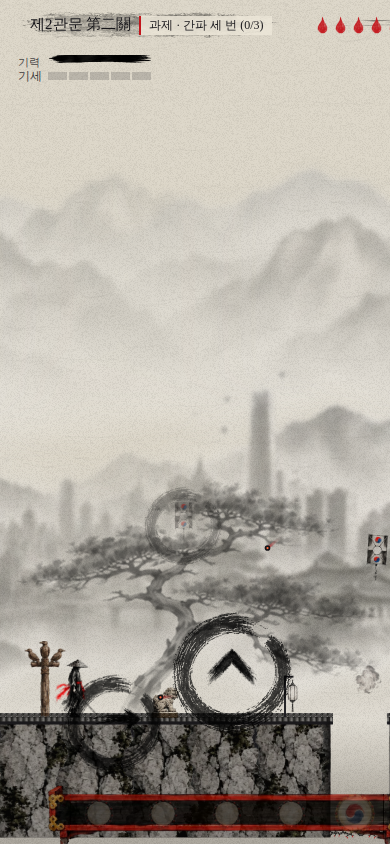
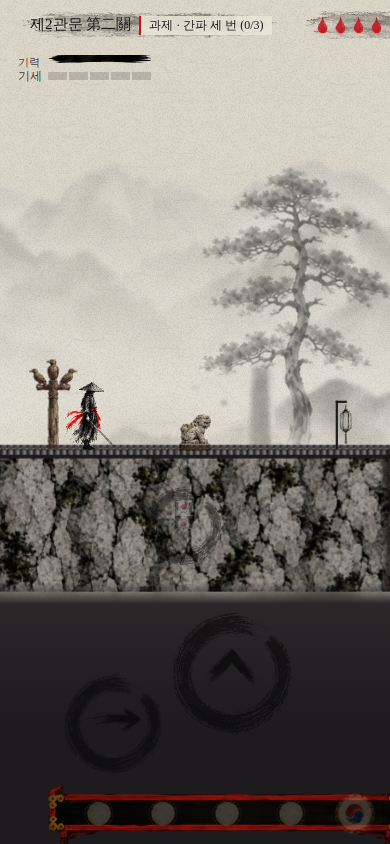
마감: 세로 화면 지원(무대는 위, 엄지 자리는 아래, 거점 포함), 다른 창으로 가면 멈춤, 그림 버전 관리로 배포 직후 옛 그림·짝 어긋남 방지, 배경음 파일 제거, 종이 질감을 배경·원경에 미리 구워 전체화면 덧칠 한 겹 제거, 디버그는 로컬에서만
Claude-Session: https://claude.ai/code/session_01Rc1cVb1vkCQfdutHoe7fgf

diff --git a/js/game.js b/js/game.js
@@ -2,6 +2,7 @@
 (() => {
 "use strict";
 const T = 32;
+const ASSET_V = "126";   // bump when any picture changes: the service worker then fetches the new json and webp together
 const $ = id => document.getElementById(id);
 const cv = $("cv"); let ctx = cv.getContext("2d", { alpha: false });   // let: the ground is baked by pointing ctx at an offscreen canvas for a moment   // opaque canvas: cheaper to composite on phones
 let W = 0, H = 0, DPR = 1, SCALE = 1;
@@ -10,12 +11,15 @@ let autoLite = false;   // set for this session when frames stay slow even at 1x
 let liteSaved = (() => { try { return localStorage.getItem("chungo.lite") === "1"; } catch (e) { return false; } })();   // read once: storage can be blocked, and this is asked every frame
 const LITE = () => autoLite || liteSaved;
 let dprCap = LITE() ? 1 : MOBILE ? 1.25 : 2;   // phones: 1.5x is sharp enough and much lighter on the GPU; lowered further if frames run long
+const PORTRAIT = () => H > W * 1.05;
+const padH = () => PORTRAIT() ? Math.round(H * .3) : 0;   // 세로: the lowest part of the screen is for the thumbs, the stage sits above it
 function resize() {
   DPR = Math.min(dprCap, window.devicePixelRatio || 1);
   for (const k in PAT) delete PAT[k];   // patterns carry the old pixel scale
   const r = cv.getBoundingClientRect(); W = Math.round(r.width) || window.innerWidth; H = Math.round(r.height) || window.innerHeight;   // the canvas's real laid-out box, not the (often stale) window size
   cv.width = Math.round(W * DPR); cv.height = Math.round(H * DPR);
-  SCALE = Math.max(0.5, Math.min(W / (T * 13), H / (T * 11)));
+  SCALE = PORTRAIT() ? Math.max(0.5, W / (T * 11)) : Math.max(0.5, Math.min(W / (T * 13), H / (T * 11)));   // upright phone: eleven tiles across, the controls get the bottom of the screen
+  document.body.classList.toggle("portrait", PORTRAIT());
   vignette = null;
 }
 window.addEventListener("resize", resize);
@@ -91,6 +95,21 @@ function tintedPaper(ssn) { // paper texture with the season's colour multiplied
   const key = "tex-paper-" + ssn; if (PAT[key]) return PAT[key]; const im = IMG["tex-paper"]; if (!im) return null;
   if (!IMG[key]) { const c = document.createElement("canvas"); c.width = im.width; c.height = im.height; const g = c.getContext("2d"); g.drawImage(im, 0, 0); g.globalCompositeOperation = "multiply"; g.fillStyle = SEASON_TINT[ssn]; g.fillRect(0, 0, c.width, c.height); IMG[key] = c; }
   return pattern(key, DPR * 0.9);
+}
+// one full-screen pass fewer per frame: the paper grain is laid into the background colour and into the far/mid paintings
+// once, instead of multiplying the whole screen by the paper every frame
+function bgPaper(col, alpha, ssn) {
+  const key = `bgp-${col}-${alpha}-${ssn}`; if (PAT[key]) return PAT[key]; const src = ssn ? (tintedPaper(ssn), IMG["tex-paper-" + ssn]) : IMG["tex-paper"]; if (!src) return null;
+  if (!IMG[key]) { const c = document.createElement("canvas"); c.width = src.width; c.height = src.height; const g = c.getContext("2d"); g.fillStyle = col; g.fillRect(0, 0, c.width, c.height); g.globalAlpha = alpha; g.globalCompositeOperation = "multiply"; g.drawImage(src, 0, 0); IMG[key] = c; }
+  return pattern(key, DPR * 0.9);
+}
+const paperBaked = new WeakMap();
+function bakePaper(img) { // a backdrop painting with the paper grain multiplied in, its own transparency kept
+  if (paperBaked.has(img)) return paperBaked.get(img); const pp = IMG["tex-paper"]; if (!pp) return img;
+  const c = document.createElement("canvas"); c.width = img.width; c.height = img.height; const g = c.getContext("2d"); g.drawImage(img, 0, 0);
+  g.globalCompositeOperation = "multiply"; g.globalAlpha = .9; const pt = g.createPattern(pp, "repeat"); pt.setTransform(new DOMMatrix().scale(img.height / 600)); g.fillStyle = pt; g.fillRect(0, 0, c.width, c.height);
+  g.globalAlpha = 1; g.globalCompositeOperation = "destination-in"; g.drawImage(img, 0, 0);
+  paperBaked.set(img, c); gpuize(c, bm => paperBaked.set(img, bm)); return c;
 }
 function pattern(key, scale) { // world- or screen-anchored repeating pattern, built once per image
   if (!IMG[key]) return null;
@@ -627,8 +646,8 @@ const sheetLoading = new Set();
 function loadSheet(n) { // one atlas: frames JSON + image (ink-inverted copy for the night palette where needed)
   if (SPR[n] || sheetLoading.has(n)) return; sheetLoading.add(n);
   Promise.all([
-    fetch(`assets/sprites/${n}.json`).then(r => r.json()),
-    new Promise((res, rej) => { const im = new Image(); im.onload = () => res(im); im.onerror = rej; im.src = `assets/sprites/${n}.webp`; })
+    fetch(`assets/sprites/${n}.json?v=${ASSET_V}`).then(r => r.json()),
+    new Promise((res, rej) => { const im = new Image(); im.onload = () => res(im); im.onerror = rej; im.src = `assets/sprites/${n}.webp?v=${ASSET_V}`; })
   ]).then(([f, img]) => { let inv = null; if (["hero", "hero2", "foes", "objects", "fx", "props", "props2", "rocks", "pines", "slabs", "pillars", "guide", "bname", "foes3"].includes(n)) try { inv = inkInverted(img); } catch (e) { inv = null; }   // short of canvas memory: keep the sheet, lose only its night copy
     SPR[n] = { f, img, inv };
     if (SPR[n].inv) gpuize(SPR[n].inv, bm => { SPR[n].inv = bm; }); applyUiSprites(); }).catch(() => { sheetLoading.delete(n); const a = (sheetTry[n] = (sheetTry[n] || 0) + 1); setTimeout(() => loadSheet(n), Math.min(5000, 1200 * a)); });   // a failed load (offline blip, a deploy in progress) is tried again
@@ -654,7 +673,7 @@ const BASE_IMGS = ["far", "mid", "tex-paper", "tex-stone", "tex-giwa"];
 // Sheets held in memory stay as before (the lazy ones are only fetched into the cache here, not decoded).
 function bootLoad() {
   const el = $("loading"), bar = $("ldBar"), txt = $("ldTxt"), t0 = performance.now();
-  const urls = []; for (const n of LAZY_SHEETS) urls.push(`assets/sprites/${n}.json`, `assets/sprites/${n}.webp`);   // the core sheets and textures are already on their way through their own loaders — fetching them twice would only double the download
+  const urls = []; for (const n of LAZY_SHEETS) urls.push(`assets/sprites/${n}.json?v=${ASSET_V}`, `assets/sprites/${n}.webp?v=${ASSET_V}`);   // the core sheets and textures are already on their way through their own loaders — fetching them twice would only double the download
   urls.push("assets/lore.webp", "assets/tex-granite.webp");
   const core = ALL_SHEETS.filter(n => !LAZY_SHEETS.has(n));
   let got = 0, q = urls.slice();
@@ -861,7 +880,7 @@ window.addEventListener("keyup", e => {
   const a = keyAct(e.code); if (a) held[a] = 0; });
 let iaiFrom = null;
 const IAI_FULL = .32, IAI_MASTER = .75, iaiF = () => IAI_FULL * (has("bd_c1") ? .7 : 1), iaiM = () => IAI_MASTER * (has("bd_c1") ? .7 : 1);   // seconds of holding before the 발도 / 각궁 draw is full   // 발도: when the hand went to the hilt
-window.addEventListener("blur", () => { for (const k in held) held[k] = 0; });
+window.addEventListener("blur", () => { for (const k in held) held[k] = 0; if (!hubOn && state === "play") pauseGame(); });   // another window took the focus: stop, as a hidden tab does
 function markTouch() { document.body.classList.add("touch"); }
 if (matchMedia("(pointer:coarse)").matches || "ontouchstart" in window) markTouch();
 window.addEventListener("touchstart", markTouch, { passive: true });
@@ -3440,7 +3459,9 @@ function render(rdt) {
     const lw = LV.w * T, lh = LV.h * T;
     cam.x = lw <= vw ? lw / 2 : Math.max(vw / 2, Math.min(lw - vw / 2, cam.x));
     const maxY = lh - vh / 2 + 8; cam.y = Math.min(maxY, Math.max(Math.min(maxY, vh / 2 - 96), cam.y));
-    if (LV.hub) { const r = hubRect(); cam.x = r.w <= vw ? r.x + r.w / 2 : Math.max(r.x + vw / 2, Math.min(r.x + r.w - vw / 2, cam.x)); cam.y = r.h <= vh ? r.y + r.h / 2 : Math.max(r.y + vh / 2, Math.min(r.y + r.h - vh / 2, cam.y)); }   // the 거점: the screen never leaves the painting
+    if (PORTRAIT()) { const bottom = LV.hub ? hubRect().y + hubRect().h : lh; cam.y = bottom - (H / 2 - padH()) / (SCALE * zoom); }   // the ground line sits just above the thumbs
+    if (LV.hub && PORTRAIT()) { const r = hubRect(); cam.x = Math.max(r.x + vw / 2, Math.min(r.x + r.w - vw / 2, cam.x)); }
+    if (LV.hub && !PORTRAIT()) { const r = hubRect(); cam.x = r.w <= vw ? r.x + r.w / 2 : Math.max(r.x + vw / 2, Math.min(r.x + r.w - vw / 2, cam.x)); cam.y = r.h <= vh ? r.y + r.h / 2 : Math.max(r.y + vh / 2, Math.min(r.y + r.h - vh / 2, cam.y)); }   // the 거점: the screen never leaves the painting
   }
   if (P && state === "play" && (padFadeT = (padFadeT || 0) - rdt) <= 0) { padFadeT = .2; const px = (P.x + P.w / 2 - cam.x) * SCALE * zoom + W / 2, py = (P.y + P.h / 2 - cam.y) * SCALE * zoom + H / 2;   // a button over the swordsman goes see-through
     for (const el of document.querySelectorAll("#pad .tb")) { const r = el.getBoundingClientRect(); el.classList.toggle("over", px > r.left - 30 && px < r.right + 30 && py > r.top - 40 && py < r.bottom + 30); } }
@@ -3449,13 +3470,12 @@ function render(rdt) {
 
   ctx.setTransform(1, 0, 0, 1, 0, 0);
   const hubPainted = LV && LV.hub && state !== "menu" && HUBIMG.complete && HUBIMG.naturalWidth;   // the 거점 painting covers the whole screen: no paper, sky or weather under it
-  if (!hubPainted) { ctx.fillStyle = pal.bg; ctx.fillRect(0, 0, cv.width, cv.height); }
+  const ssn0 = LV && state !== "menu" && !pal.night ? season() : 0;   // the season's tint is baked into the paper, so the screen is washed once, not twice
+  if (!hubPainted) { ctx.fillStyle = (!LITE() && bgPaper(pal.bg, pal.rim ? .35 : .9, ssn0)) || pal.bg; ctx.fillRect(0, 0, cv.width, cv.height); }
   if (!(LV && LV.hub)) drawBackdrop(pal);
   ctx.setTransform(1, 0, 0, 1, 0, 0);
-  const ssn0 = LV && state !== "menu" && !pal.night ? season() : 0;   // the season's tint is baked into the paper, so the screen is washed once, not twice
   const paperTex = ssn0 ? tintedPaper(ssn0) : pattern("tex-paper", DPR * 0.9);
-  if (hubPainted) {}
-  else if (paperTex && !LITE()) { ctx.globalCompositeOperation = "multiply"; ctx.globalAlpha = pal.rim ? .35 : .9; ctx.fillStyle = paperTex; ctx.fillRect(0, 0, cv.width, cv.height); ctx.globalCompositeOperation = "source-over"; ctx.globalAlpha = 1; }
+  if (hubPainted || (paperTex && !LITE())) {}   // the grain is already in the background and the paintings (bgPaper, bakePaper)
   else { ctx.fillStyle = paperPat; ctx.fillRect(0, 0, cv.width, cv.height); }
   if (!LV || state === "menu") return;
   const ssn = season(), tt = performance.now() / 1000;
@@ -3730,6 +3750,7 @@ function render(rdt) {
     { const rx = cx + d.x * 152, ry = cy + d.y * 152; ctx.globalAlpha = .8; brushRing(rx, ry, 9 * rs, ac, 1.6, 5); if (!SPR.guide) for (let q = 0; q < 4; q++) { const qa = q * Math.PI / 2 + .3; inkDab(rx + Math.cos(qa) * 14 * rs, ry + Math.sin(qa) * 14 * rs, qa, 6, 1.6, ac); } ctx.globalAlpha = 1; }   // where the dash will land, a small brushed ring
   }
 
+  if (PORTRAIT() && LV && !LV.hub) { const g = ctx.createLinearGradient(0, LV.h * T - 8, 0, LV.h * T + 120); g.addColorStop(0, pal.night ? "rgba(10,10,14,.0)" : "rgba(23,22,26,0)"); g.addColorStop(.15, pal.night ? "#0c0b10" : "#2a2729"); g.addColorStop(1, pal.night ? "#0c0b10" : "#1d1b1e"); ctx.fillStyle = g; ctx.fillRect(cam.x - vw, LV.h * T - 8, vw * 2, vh + 16); }   // 세로: under the stage, the earth where the thumbs rest
   // screen space overlays
   ctx.setTransform(1, 0, 0, 1, 0, 0);
   if (!vignette) { vignette = ctx.createRadialGradient(cv.width / 2, cv.height / 2, Math.min(cv.width, cv.height) * .35, cv.width / 2, cv.height / 2, Math.max(cv.width, cv.height) * .75); vignette.addColorStop(0, "rgba(20,18,16,0)"); vignette.addColorStop(1, "rgba(20,18,16,.32)"); }
@@ -3811,7 +3832,7 @@ function drawBackdrop(pal) {
   layers.forEach(([key, f, alpha, bottom, hFrac], li) => {
     const yoff = (lh - camY) * f * .5 * SCALE;
     const by = H * bottom + yoff;
-    const img = IMG[key];
+    const img = IMG[key] && !LITE() ? bakePaper(IMG[key]) : IMG[key];
     ctx.globalAlpha = alpha;
     if (img) {
       const h = H * hFrac, w = h * img.width / img.height, off = ((camX * f * SCALE) % w + w) % w;
@@ -4779,7 +4800,7 @@ function petScreen() { // 둥지: choose an egg, feed it 숨
 let hubOn = false, hubNear = null;
 // the 거점 is one painted courtyard: a yard, a stone terrace (축대) with the main hall on it, and five places to go
 const HUB_W = 40, HUB_UP = 10, HUB_K = 40 * 32 / 1344, HUB_Y = 12 * 32 - 490 * (40 * 32 / 1344);   // the painting spans the map exactly   // the painting's ground line (y 490) sits on row 12; its terrace top lands on row 10
-const HUBIMG = new Image(); HUBIMG.src = "assets/hubscene.webp?v=10029700";
+const HUBIMG = new Image(); HUBIMG.src = `assets/hubscene.webp?v=${ASSET_V}`;
 const HUB_ST = [
   { id: "gate", tx: 4, ty: 12, h: 150, name: "산문", han: "山門", act: "길 떠나기 · 천고탑 · 수련터" },
   { id: "well", tx: 9, ty: 12, h: 80, name: "약수터", han: "藥水", act: "숨 다스리기 · 영물" },
@@ -4810,7 +4831,7 @@ function buildHubMap() {
   rows[11][6] = "P"; return rows.map(r => r.join(""));
 }
 const hubRect = () => { const w = 1344 * HUB_K, h = 576 * HUB_K; return { x: (LV.w * T - w) / 2, y: HUB_Y, w, h }; };
-function hubZoom() { const r = hubRect(), vw0 = W / SCALE, vh0 = H / SCALE; return Math.max(1, vw0 / r.w, vh0 / r.h); }   // any screen: zoom in until the painting covers it
+function hubZoom() { const r = hubRect(), vw0 = W / SCALE, vh0 = H / SCALE; return PORTRAIT() ? Math.max(1, vw0 / r.w) : Math.max(1, vw0 / r.w, vh0 / r.h); }   // any screen: zoom in until the painting covers it
 function drawHubScene(pal) { // the painting itself is the place; the yard below its ground line is plain earth
   const top = HUB_Y, w = 1344 * HUB_K, h = 576 * HUB_K, x = (LV.w * T - w) / 2, I = HUBIMG;
   if (!(I.complete && I.naturalWidth)) { ctx.fillStyle = "#d9d3c4"; ctx.fillRect(-400, top + h - 2, LV.w * T + 800, 1200); return; }
@@ -5057,7 +5078,7 @@ $("bInstall").addEventListener("click", async () => { if (!installEvt) return; i
 const standalone = matchMedia("(display-mode: standalone)").matches || matchMedia("(display-mode: fullscreen)").matches || navigator.standalone;
 
 
-if (location.hash === "#debug") window.__dbg = { get missing() { return ALL_SHEETS.filter(n => !LAZY_SHEETS.has(n) && !SPR[n]).concat(BASE_IMGS.filter(k => !IMG[k])); }, tp(tx, ty) { P.x = tx * T + 7; P.y = (ty + 1) * T - 30; P.vx = P.vy = 0; }, get state() { return state; }, get P() { return P; }, get LV() { return LV; }, get state2() { return state; }, get SC() { return LV.scenery; }, get E() { return enemies; }, get run() { return run; }, set hs(v) { hitstop = v; }, kill(e) { killEnemy(e); }, hurt(e, s, k) { hurtEnemy(e, s, k); }, die(k, d) { die(k, d); }, banner(a, b, c) { banner(a, b === "red" ? SEAL : JJOK, c); }, chungo() { chungo(); }, clear() { madangClear(); }, hubAct() { hubAct(); }, get hub() { return { hubOn, hubNear }; }, get songPos() { return songPos; }, get FLASH() { return FLASH; }, get hold() { return bulletHold; }, get bolts() { return bolts; }, get rings() { return rings; }, get B() { return bullets; }, get beams() { return beams; }, flashing: e => isFlashing(e), enlighten: f => enlighten(f), syncCombos: () => syncCombos(), has: id => has(id), get FL() { flashSync(); return FLASH; } };
+if (location.hash === "#debug" && /^(localhost|127\.0\.0\.1)$/.test(location.hostname)) window.__dbg = { get missing() { return ALL_SHEETS.filter(n => !LAZY_SHEETS.has(n) && !SPR[n]).concat(BASE_IMGS.filter(k => !IMG[k])); }, tp(tx, ty) { P.x = tx * T + 7; P.y = (ty + 1) * T - 30; P.vx = P.vy = 0; }, get state() { return state; }, get P() { return P; }, get LV() { return LV; }, get state2() { return state; }, get SC() { return LV.scenery; }, get E() { return enemies; }, get run() { return run; }, set hs(v) { hitstop = v; }, kill(e) { killEnemy(e); }, hurt(e, s, k) { hurtEnemy(e, s, k); }, die(k, d) { die(k, d); }, banner(a, b, c) { banner(a, b === "red" ? SEAL : JJOK, c); }, chungo() { chungo(); }, clear() { madangClear(); }, hubAct() { hubAct(); }, get hub() { return { hubOn, hubNear }; }, get songPos() { return songPos; }, get FLASH() { return FLASH; }, get hold() { return bulletHold; }, get bolts() { return bolts; }, get rings() { return rings; }, get B() { return bullets; }, get beams() { return beams; }, flashing: e => isFlashing(e), enlighten: f => enlighten(f), syncCombos: () => syncCombos(), has: id => has(id), get FL() { flashSync(); return FLASH; } };
 window.addEventListener("pointerdown", () => Music.unlock(), { once: true, capture: true });   // first tap anywhere starts the sound
 resize();
 toMenu();

diff --git a/sw.js b/sw.js
@@ -4,7 +4,7 @@ const CACHE = "chungo-v125";
 const ASSETS = "chungo-assets";   // pictures and sound: kept across versions, served at once, refreshed in the background
 const CORE = ["./", "index.html", "manifest.webmanifest",
   "icons/icon-192.png", "icons/icon-512.png", "icons/apple-touch-icon.png"];
-const OPTIONAL = ["assets/far.webp", "assets/mid.webp", "assets/title.webp", "assets/tex-paper.webp", "assets/audio/bgm.mp3?v=572", "assets/tex-stone.webp", "assets/tex-giwa.webp", "assets/tex-granite.webp", "assets/tex-slab.webp", "assets/sprites/hero.webp", "assets/sprites/hero.json", "assets/sprites/foes.webp", "assets/sprites/foes.json", "assets/sprites/objects.webp", "assets/sprites/objects.json", "assets/sprites/ui.webp", "assets/sprites/ui.json", "assets/sprites/rogue.webp", "assets/sprites/rogue.json", "assets/sprites/rogue2.webp", "assets/sprites/rogue2.json", "assets/sprites/roguea.webp", "assets/sprites/roguea.json", "assets/sprites/rogue3.webp", "assets/sprites/rogue3.json", "assets/sprites/rogue4.webp", "assets/sprites/rogue4.json", "assets/sprites/foes2.webp", "assets/sprites/foes2.json", "assets/sprites/bossA.webp", "assets/sprites/bossA.json", "assets/sprites/bossB.webp", "assets/sprites/bossB.json", "assets/sprites/bossfx.webp", "assets/sprites/bossfx.json", "assets/sprites/bossC.webp", "assets/sprites/bossC.json", "assets/sprites/bossD.webp", "assets/sprites/bossD.json", "assets/sprites/bossE.webp", "assets/sprites/bossE.json", "assets/sprites/bossF.webp", "assets/sprites/bossF.json", "assets/sprites/hero3.webp", "assets/sprites/hero3.json", "assets/sprites/herofx.webp", "assets/sprites/herofx.json", "assets/sprites/slashfx.webp", "assets/sprites/slashfx.json", "assets/sprites/perkfx.webp", "assets/sprites/perkfx.json", "assets/sprites/weapons.webp", "assets/sprites/weapons.json", "assets/sprites/chars.webp", "assets/sprites/chars.json", "assets/sprites/misc.webp", "assets/sprites/misc.json", "assets/sprites/ic0.webp", "assets/sprites/ic0.json", "assets/sprites/ic1.webp", "assets/sprites/ic1.json", "assets/sprites/ic2.webp", "assets/sprites/ic2.json", "assets/sprites/ic3.webp", "assets/sprites/ic3.json", "assets/sprites/ic4.webp", "assets/sprites/ic4.json", "assets/sprites/ic5.webp", "assets/sprites/ic5.json", "assets/sprites/ic6.webp", "assets/sprites/ic6.json", "assets/sprites/ic7.webp", "assets/sprites/ic7.json", "assets/sprites/ic8.webp", "assets/sprites/ic8.json", "assets/sprites/ic9.webp", "assets/sprites/ic9.json", "assets/sprites/ic10.webp", "assets/sprites/ic10.json", "assets/sprites/ic11.webp", "assets/sprites/ic11.json", "assets/sprites/ic12.webp", "assets/sprites/ic12.json", "assets/sprites/ic13.webp", "assets/sprites/ic13.json", "assets/sprites/ic14.webp", "assets/sprites/ic14.json", "assets/sprites/ic15.webp", "assets/sprites/ic15.json", "assets/sprites/mu.webp", "assets/sprites/mu.json", "assets/sprites/po.webp", "assets/sprites/po.json", "assets/sprites/mfx.webp", "assets/sprites/mfx.json", "assets/sprites/pfx.webp", "assets/sprites/pfx.json", "assets/sprites/vis.webp", "assets/sprites/vis.json", "assets/sprites/guide.webp", "assets/sprites/guide.json", "assets/sprites/mv0.webp", "assets/sprites/mv0.json", "assets/sprites/mv1.webp", "assets/sprites/mv1.json", "assets/sprites/mv2.webp", "assets/sprites/mv2.json", "assets/sprites/arms.webp", "assets/sprites/arms.json", "assets/sprites/bcal.webp", "assets/sprites/bcal.json", "assets/sprites/bvfx.webp", "assets/sprites/bvfx.json", "assets/sprites/bname.webp", "assets/sprites/bname.json", "assets/sprites/mvrun.webp", "assets/sprites/mvrun.json", "assets/sprites/mech.webp", "assets/sprites/mech.json", "assets/sprites/foes3.webp", "assets/sprites/foes3.json", "assets/sprites/kfx.webp", "assets/sprites/kfx.json", "assets/sprites/kring.webp", "assets/sprites/kring.json", "assets/sprites/wfx.webp", "assets/sprites/wfx.json", "assets/sprites/ic16.webp", "assets/sprites/ic16.json", "assets/sprites/grun2.webp", "assets/sprites/grun2.json", "assets/sprites/pet.webp", "assets/sprites/pet.json", "assets/sprites/npc.webp", "assets/sprites/npc.json", "assets/sprites/muz.webp", "assets/sprites/muz.json", "assets/sprites/ogA.webp", "assets/sprites/ogA.json", "assets/sprites/ogB.webp", "assets/sprites/ogB.json", "assets/sprites/hub.webp", "assets/sprites/hub.json", "assets/lore.webp", "assets/hubscene.webp?v=10029700"];
+const OPTIONAL = ["assets/far.webp", "assets/mid.webp", "assets/title.webp", "assets/tex-paper.webp", "assets/tex-stone.webp", "assets/tex-giwa.webp", "assets/tex-granite.webp", "assets/tex-slab.webp", "assets/sprites/hero.webp", "assets/sprites/hero.json", "assets/sprites/foes.webp", "assets/sprites/foes.json", "assets/sprites/objects.webp", "assets/sprites/objects.json", "assets/sprites/ui.webp", "assets/sprites/ui.json", "assets/sprites/rogue.webp", "assets/sprites/rogue.json", "assets/sprites/rogue2.webp", "assets/sprites/rogue2.json", "assets/sprites/roguea.webp", "assets/sprites/roguea.json", "assets/sprites/rogue3.webp", "assets/sprites/rogue3.json", "assets/sprites/rogue4.webp", "assets/sprites/rogue4.json", "assets/sprites/foes2.webp", "assets/sprites/foes2.json", "assets/sprites/bossA.webp", "assets/sprites/bossA.json", "assets/sprites/bossB.webp", "assets/sprites/bossB.json", "assets/sprites/bossfx.webp", "assets/sprites/bossfx.json", "assets/sprites/bossC.webp", "assets/sprites/bossC.json", "assets/sprites/bossD.webp", "assets/sprites/bossD.json", "assets/sprites/bossE.webp", "assets/sprites/bossE.json", "assets/sprites/bossF.webp", "assets/sprites/bossF.json", "assets/sprites/hero3.webp", "assets/sprites/hero3.json", "assets/sprites/herofx.webp", "assets/sprites/herofx.json", "assets/sprites/slashfx.webp", "assets/sprites/slashfx.json", "assets/sprites/perkfx.webp", "assets/sprites/perkfx.json", "assets/sprites/weapons.webp", "assets/sprites/weapons.json", "assets/sprites/chars.webp", "assets/sprites/chars.json", "assets/sprites/misc.webp", "assets/sprites/misc.json", "assets/sprites/ic0.webp", "assets/sprites/ic0.json", "assets/sprites/ic1.webp", "assets/sprites/ic1.json", "assets/sprites/ic2.webp", "assets/sprites/ic2.json", "assets/sprites/ic3.webp", "assets/sprites/ic3.json", "assets/sprites/ic4.webp", "assets/sprites/ic4.json", "assets/sprites/ic5.webp", "assets/sprites/ic5.json", "assets/sprites/ic6.webp", "assets/sprites/ic6.json", "assets/sprites/ic7.webp", "assets/sprites/ic7.json", "assets/sprites/ic8.webp", "assets/sprites/ic8.json", "assets/sprites/ic9.webp", "assets/sprites/ic9.json", "assets/sprites/ic10.webp", "assets/sprites/ic10.json", "assets/sprites/ic11.webp", "assets/sprites/ic11.json", "assets/sprites/ic12.webp", "assets/sprites/ic12.json", "assets/sprites/ic13.webp", "assets/sprites/ic13.json", "assets/sprites/ic14.webp", "assets/sprites/ic14.json", "assets/sprites/ic15.webp", "assets/sprites/ic15.json", "assets/sprites/mu.webp", "assets/sprites/mu.json", "assets/sprites/po.webp", "assets/sprites/po.json", "assets/sprites/mfx.webp", "assets/sprites/mfx.json", "assets/sprites/pfx.webp", "assets/sprites/pfx.json", "assets/sprites/vis.webp", "assets/sprites/vis.json", "assets/sprites/guide.webp", "assets/sprites/guide.json", "assets/sprites/mv0.webp", "assets/sprites/mv0.json", "assets/sprites/mv1.webp", "assets/sprites/mv1.json", "assets/sprites/mv2.webp", "assets/sprites/mv2.json", "assets/sprites/arms.webp", "assets/sprites/arms.json", "assets/sprites/bcal.webp", "assets/sprites/bcal.json", "assets/sprites/bvfx.webp", "assets/sprites/bvfx.json", "assets/sprites/bname.webp", "assets/sprites/bname.json", "assets/sprites/mvrun.webp", "assets/sprites/mvrun.json", "assets/sprites/mech.webp", "assets/sprites/mech.json", "assets/sprites/foes3.webp", "assets/sprites/foes3.json", "assets/sprites/kfx.webp", "assets/sprites/kfx.json", "assets/sprites/kring.webp", "assets/sprites/kring.json", "assets/sprites/wfx.webp", "assets/sprites/wfx.json", "assets/sprites/ic16.webp", "assets/sprites/ic16.json", "assets/sprites/grun2.webp", "assets/sprites/grun2.json", "assets/sprites/pet.webp", "assets/sprites/pet.json", "assets/sprites/npc.webp", "assets/sprites/npc.json", "assets/sprites/muz.webp", "assets/sprites/muz.json", "assets/sprites/ogA.webp", "assets/sprites/ogA.json", "assets/sprites/ogB.webp", "assets/sprites/ogB.json", "assets/sprites/hub.webp", "assets/sprites/hub.json", "assets/lore.webp", "assets/hubscene.webp?v=10029700"];
 
 self.addEventListener("install", e => {
   e.waitUntil(caches.open(CACHE).then(async c => {
@@ -26,8 +26,8 @@ self.addEventListener("fetch", e => {
   if (url.origin !== location.origin) return;
   if (url.pathname.includes("/assets/")) {   // cache first, then quietly fetch the newest copy for next time
     e.respondWith(caches.open(ASSETS).then(async c => {
-      const hit = await c.match(req, { ignoreSearch: true });
-      const net = fetch(req).then(r => { if (r.ok) c.put(req, r.clone()); return r; }).catch(() => null);
+      const versioned = url.search.length > 0, hit = await c.match(req, { ignoreSearch: !versioned });   // a versioned picture is matched exactly, so json and webp of one version always come together
+      const net = fetch(req).then(r => { if (r.ok) { c.put(req, r.clone()); if (versioned) c.keys().then(ks => ks.forEach(k => { const u = new URL(k.url); if (u.pathname === url.pathname && u.search !== url.search) c.delete(k); })); } return r; }).catch(() => null);   // older versions of the same file are dropped
       if (hit) return hit;
       return (await net) || caches.match(req, { ignoreSearch: true }).then(r => r || Response.error());
     }));

diff --git a/_review/r07_drawcalls.js b/_review/r07_drawcalls.js
@@ -1,11 +1,11 @@
 const { chromium } = require('/opt/node-tools/node_modules/playwright');
 (async () => { const b = await chromium.launch(); const ctx = await b.newContext({ viewport: { width: 870, height: 401 }, serviceWorkers: 'block', deviceScaleFactor: 1, isMobile: true, hasTouch: true }); const p = await ctx.newPage();
-  await p.goto('http://localhost:8765/#debug'); await p.evaluate(() => { localStorage.clear(); localStorage.setItem('chungo.tut', '1'); localStorage.setItem('chungo.meta', JSON.stringify({ tips: { w_hwando: 1, edge: 1, chungo: 1 } })); localStorage.setItem('chungo.run', JSON.stringify({ v: 2, seed: 7, dateKey: 'x', m: 3, cycle: 0, cp: -1, dead: [], breath: 5, qi: 0, time: 0, deaths: 0, kills: 0, strikes: 0, slashes: 0, perks: [], weapon: 'hwando' })); });
+  await p.goto('http://localhost:8765/#debug'); await p.evaluate(() => { localStorage.clear(); localStorage.setItem('chungo.tut', '1'); localStorage.setItem('chungo.meta', JSON.stringify({ firsts: { tutDone: 1 }, runN: 5, tips: { w_hwando: 1, edge: 1, chungo: 1 } })); localStorage.setItem('chungo.run', JSON.stringify({ v: 2, seed: 7, dateKey: 'x', m: 3, cycle: 0, cp: -1, dead: [], breath: 5, qi: 0, time: 0, deaths: 0, kills: 0, strikes: 0, slashes: 0, perks: [], weapon: 'hwando' })); });
   await p.reload(); await p.waitForFunction(() => document.getElementById('loading').hidden, null, { timeout: 90000 });
   await p.evaluate(() => document.getElementById('bContinue').click()); await p.waitForTimeout(300); await p.click('#bEnter'); await p.waitForFunction(() => __dbg.state === 'play', null, { timeout: 60000 }); await p.evaluate(() => { __dbg.P.invT = 999; });
   await p.waitForTimeout(2000);
   const r = await p.evaluate(() => new Promise(res => { const C = CanvasRenderingContext2D.prototype, names = ['drawImage', 'fill', 'stroke', 'fillRect', 'fillText', 'createLinearGradient', 'createRadialGradient', 'createPattern', 'save'], orig = {}, cnt = {}, area = {};
-    for (const n of names) { orig[n] = C[n]; C[n] = function (...a) { const k = n + ' ' + (new Error().stack.split('\n')[2].trim().match(/at (\S+)/) || [])[1]; cnt[k] = (cnt[k] || 0) + 1; if (n === 'drawImage') { const m = this.getTransform(); const w = a.length > 5 ? a[7] : a.length > 3 ? a[3] : a[0].width, h = a.length > 5 ? a[8] : a.length > 3 ? a[4] : a[0].height; area[k] = (area[k] || 0) + Math.abs(w * h * m.a * m.d); } if (n === 'fillRect') { const m = this.getTransform(); area[k] = (area[k] || 0) + Math.abs(a[2] * a[3] * m.a * m.d); } return orig[n].apply(this, a); }; }
+    for (const n of names) { orig[n] = C[n]; C[n] = function (...a) { const k = n + ' ' + (new Error().stack.split('\n')[2].trim().match(/at (\S+) .*:(\d+):\d+/) || []).slice(1,3).join(':'); cnt[k] = (cnt[k] || 0) + 1; if (n === 'drawImage') { const m = this.getTransform(); const w = a.length > 5 ? a[7] : a.length > 3 ? a[3] : a[0].width, h = a.length > 5 ? a[8] : a.length > 3 ? a[4] : a[0].height; area[k] = (area[k] || 0) + Math.abs(w * h * m.a * m.d); } if (n === 'fillRect') { const m = this.getTransform(); area[k] = (area[k] || 0) + Math.abs(a[2] * a[3] * m.a * m.d); } return orig[n].apply(this, a); }; }
     requestAnimationFrame(() => requestAnimationFrame(() => { for (const n of names) C[n] = orig[n]; res(Object.entries(cnt).map(([k, v]) => [k, v, Math.round((area[k] || 0) / 1000)]).sort((a, b) => b[2] - a[2] || b[1] - a[1])); })); }));
   const scr = 870 * 401 / 1000; console.log('screen kpx', scr); r.slice(0, 30).forEach(x => console.log(x.join('  ')));
   await b.close(); })();

diff --git a/_review/r11_portrait.js b/_review/r11_portrait.js
@@ -1,0 +1,7 @@
+const { open, RUN } = require('./lib');
+(async () => { for (const [w, h] of [[390, 844], [360, 740]]) { const { b, p, errs } = await open({ vp: { width: w, height: h }, mobile: true, run: RUN('hwando', { breath: 9 }) });
+  await p.waitForTimeout(1500); await p.screenshot({ path: `shots/11_gate_${w}.png` });
+  await p.keyboard.press('Escape'); await p.waitForTimeout(300); await p.screenshot({ path: `shots/11_pause_${w}.png` }); await p.keyboard.press('Escape');
+  await p.evaluate(() => __dbg.clear()); await p.waitForTimeout(1500); await p.screenshot({ path: `shots/11_tree_${w}.png` });
+  console.log(w, h, errs); await b.close(); }
+  const { b, p, errs } = await open({ vp: { width: 390, height: 844 }, mobile: true, run: null }); await p.waitForTimeout(2500); await p.screenshot({ path: 'shots/11_hub_390.png' }); console.log('hub', errs); await b.close(); })();
